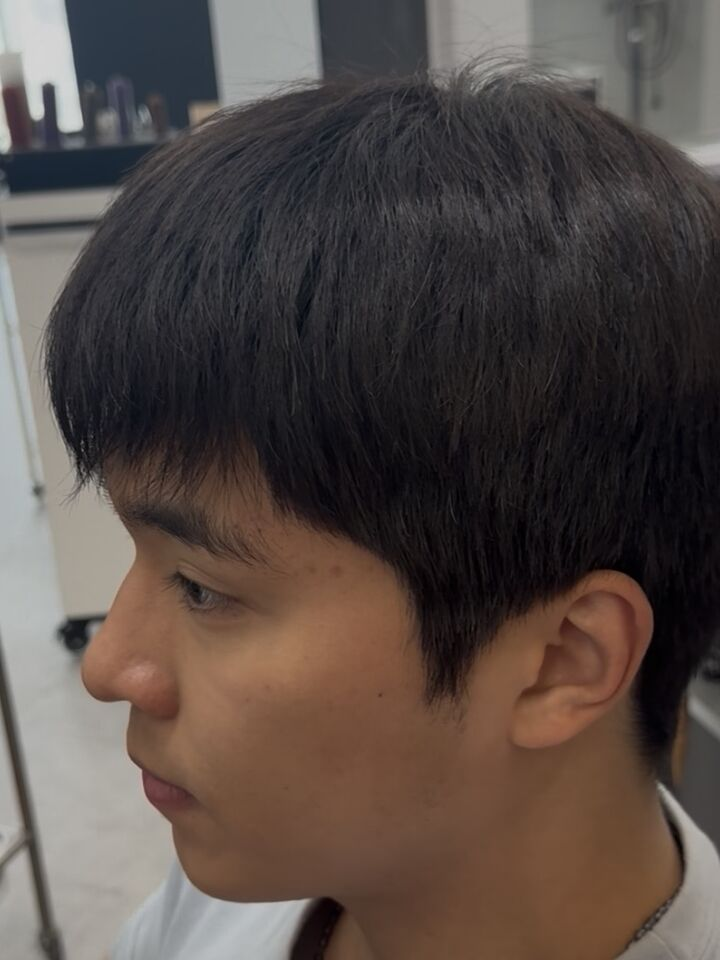
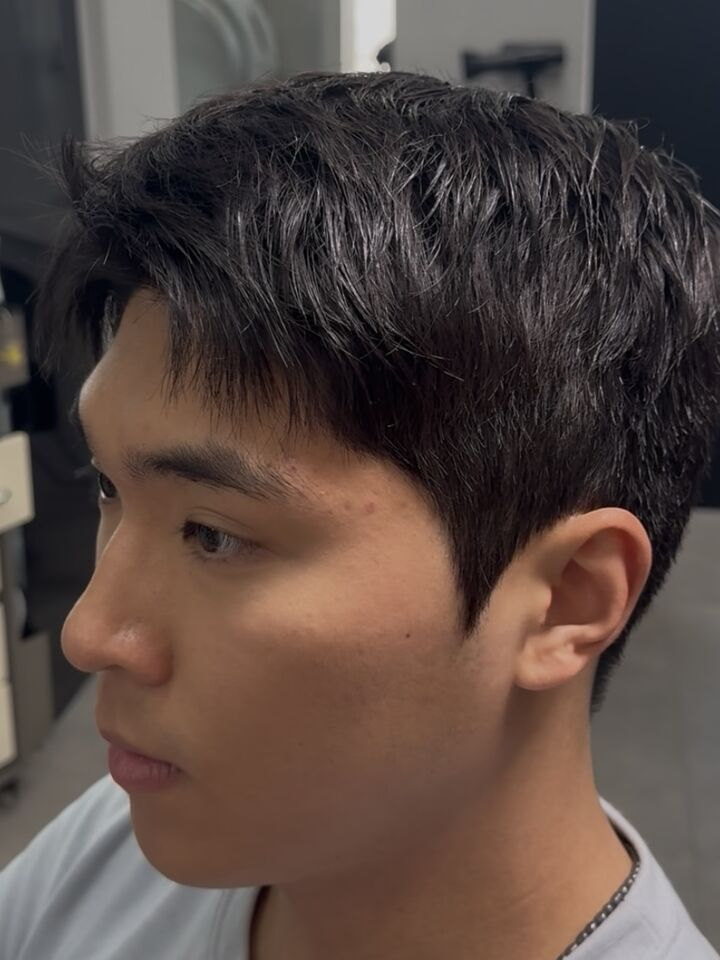
1-3 드랍 6번 타일: 비포 사진 제거, 애프터만 표시

diff --git a/assets/js/main.js b/assets/js/main.js
@@ -158,8 +158,8 @@ var TORSO_MEDIA = (function () {
         groups: [[1,2,3],[4,5]] },
       { code: '1-2', name: '필러스', n: 3, photos: ['junyoung','junyoung','junyoung','junghoon'],
         groups: [[1],[2,3],[4]] },
-      { code: '1-3', name: '드롭 · 아이비 · 크롭', n: 4, photos: ['jinhoon','jinhoon','jinhoon','jinhoon','jinhoon'],
-        groups: [[1,2,3],[4,5]] }
+      { code: '1-3', name: '드롭 · 아이비 · 크롭', n: 4, photos: ['jinhoon','jinhoon','jinhoon','jinhoon'],
+        groups: [[1,2,3],[4]] }
     ]},
     soft: { idx: '02', key: 'Soft Core', name: '소프트 코어', styles: [
       { code: '2-1', name: '시스루 댄디', n: 4, photos:['junyoung','junyoung','jinhoon','jinhoon','jinhoon','jinhoon','jinhoon','jinhoon','jinhoon','jinhoon','jinhoon','jinhoon'],
